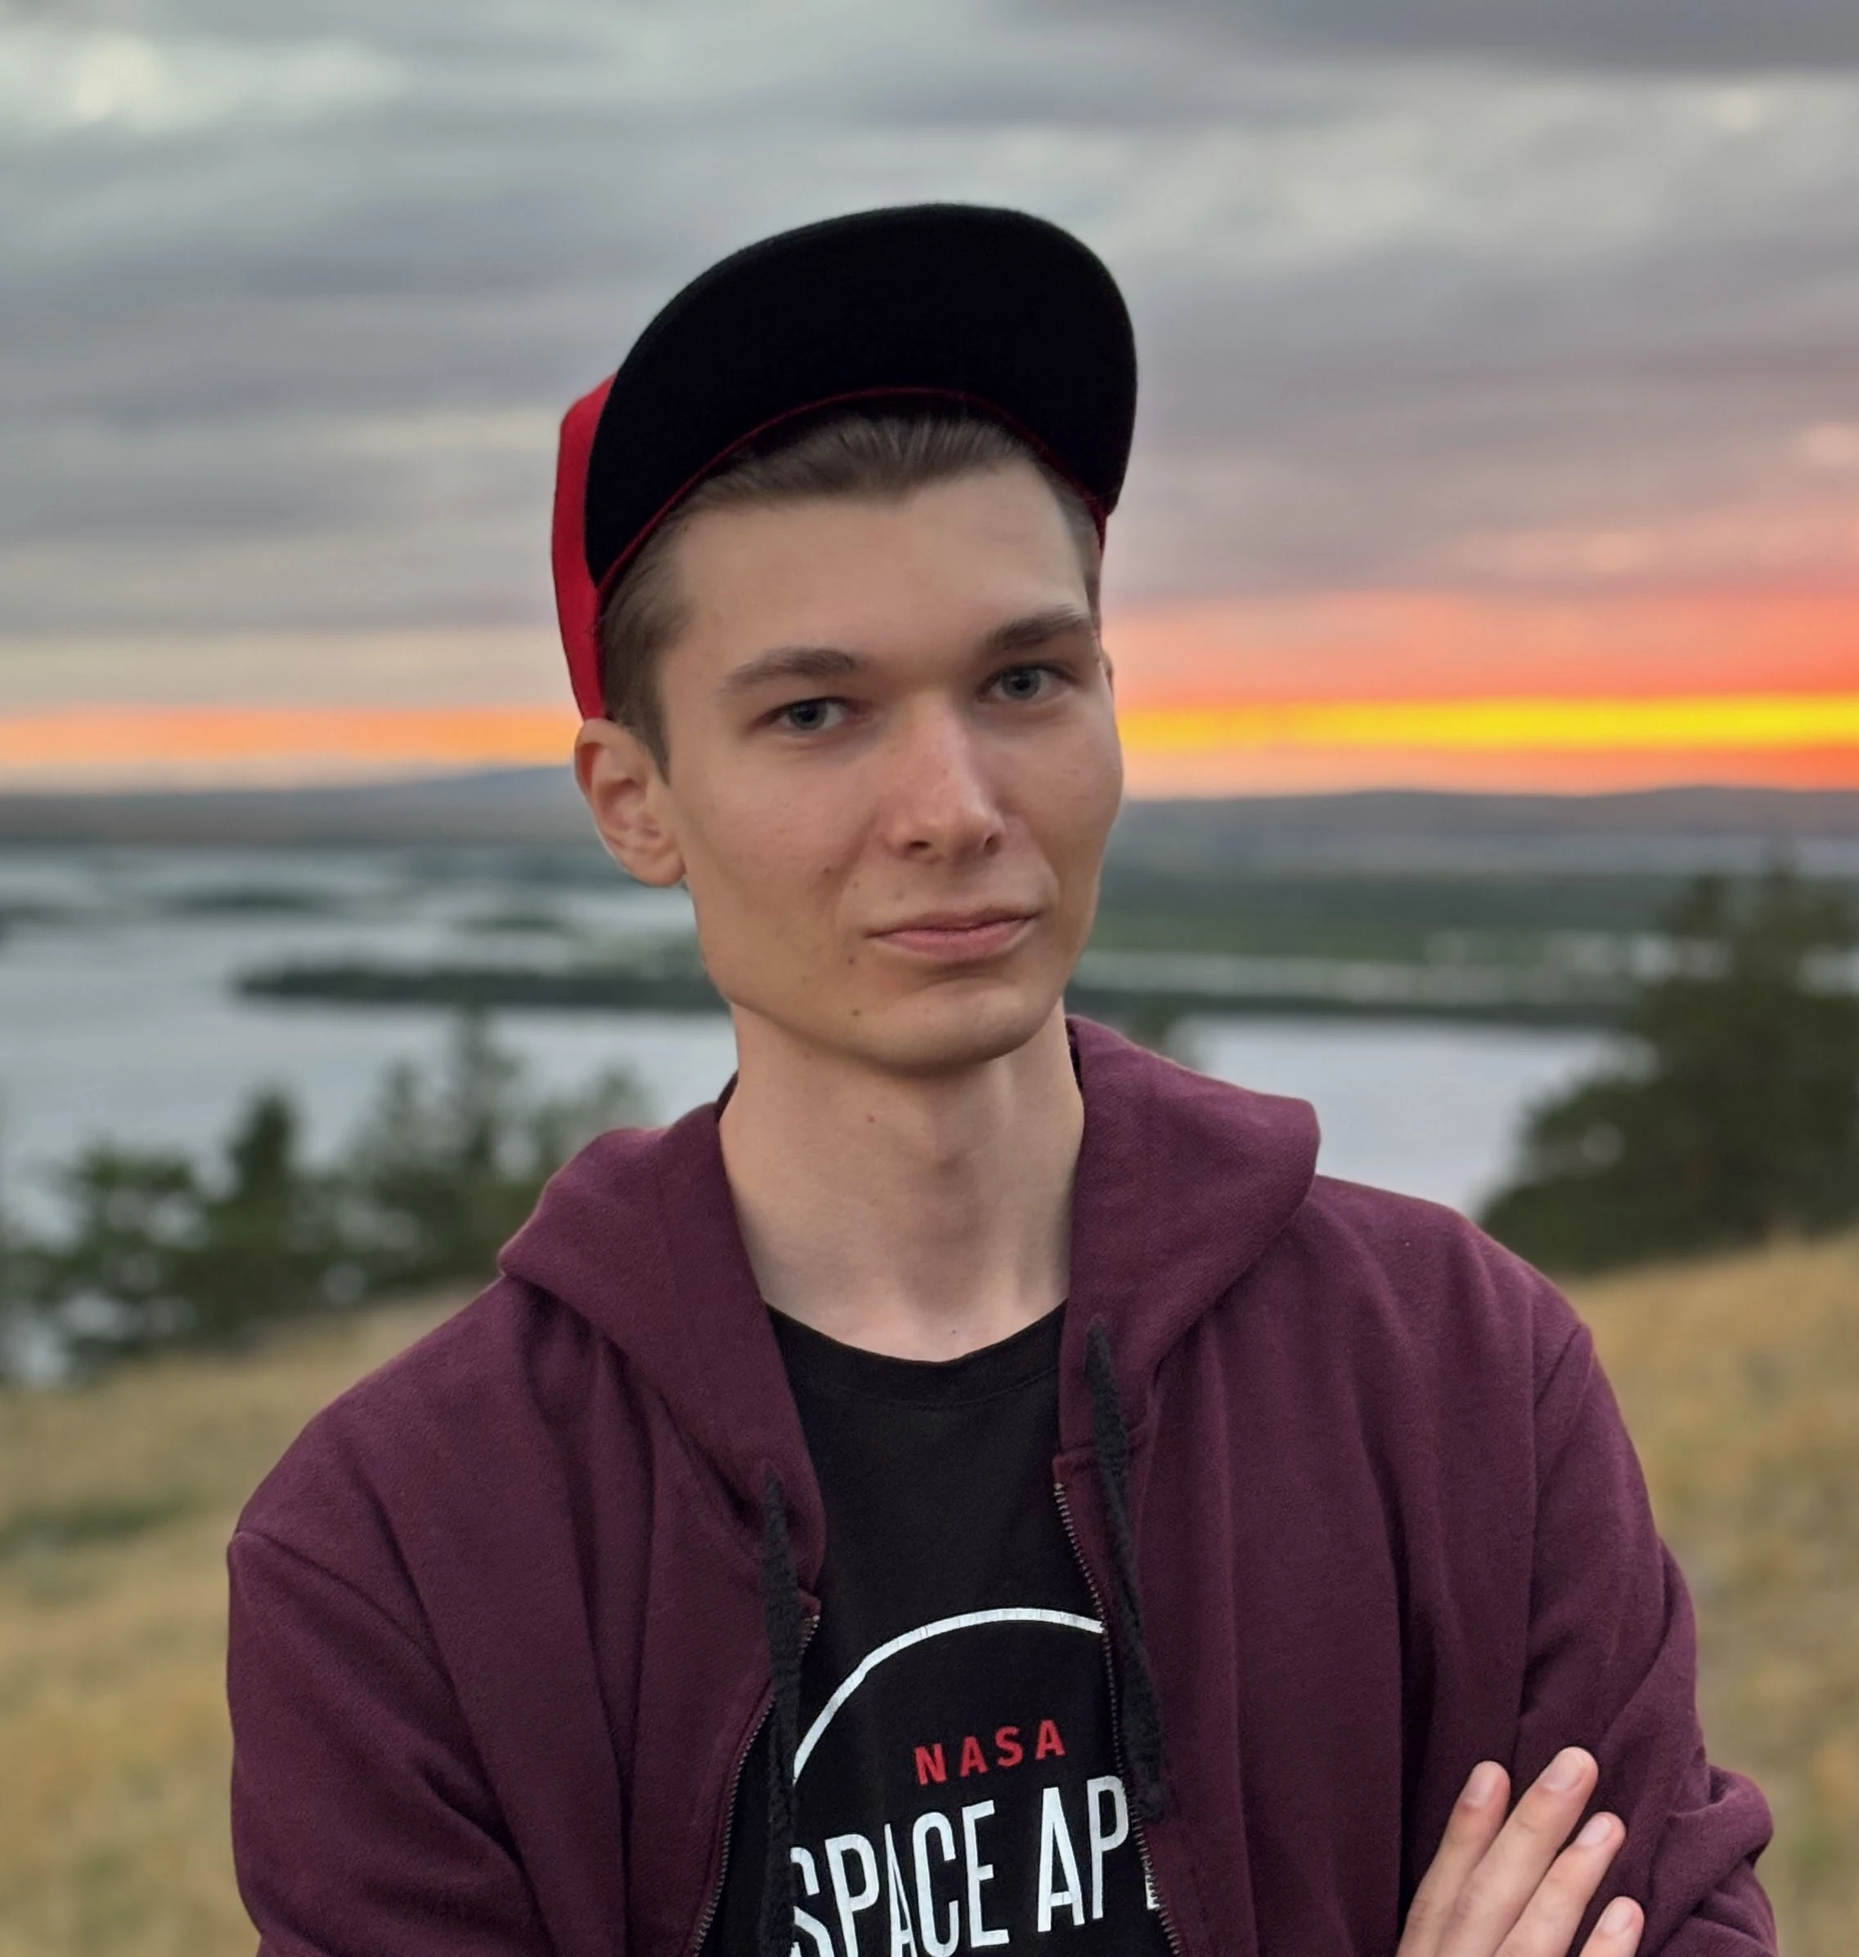
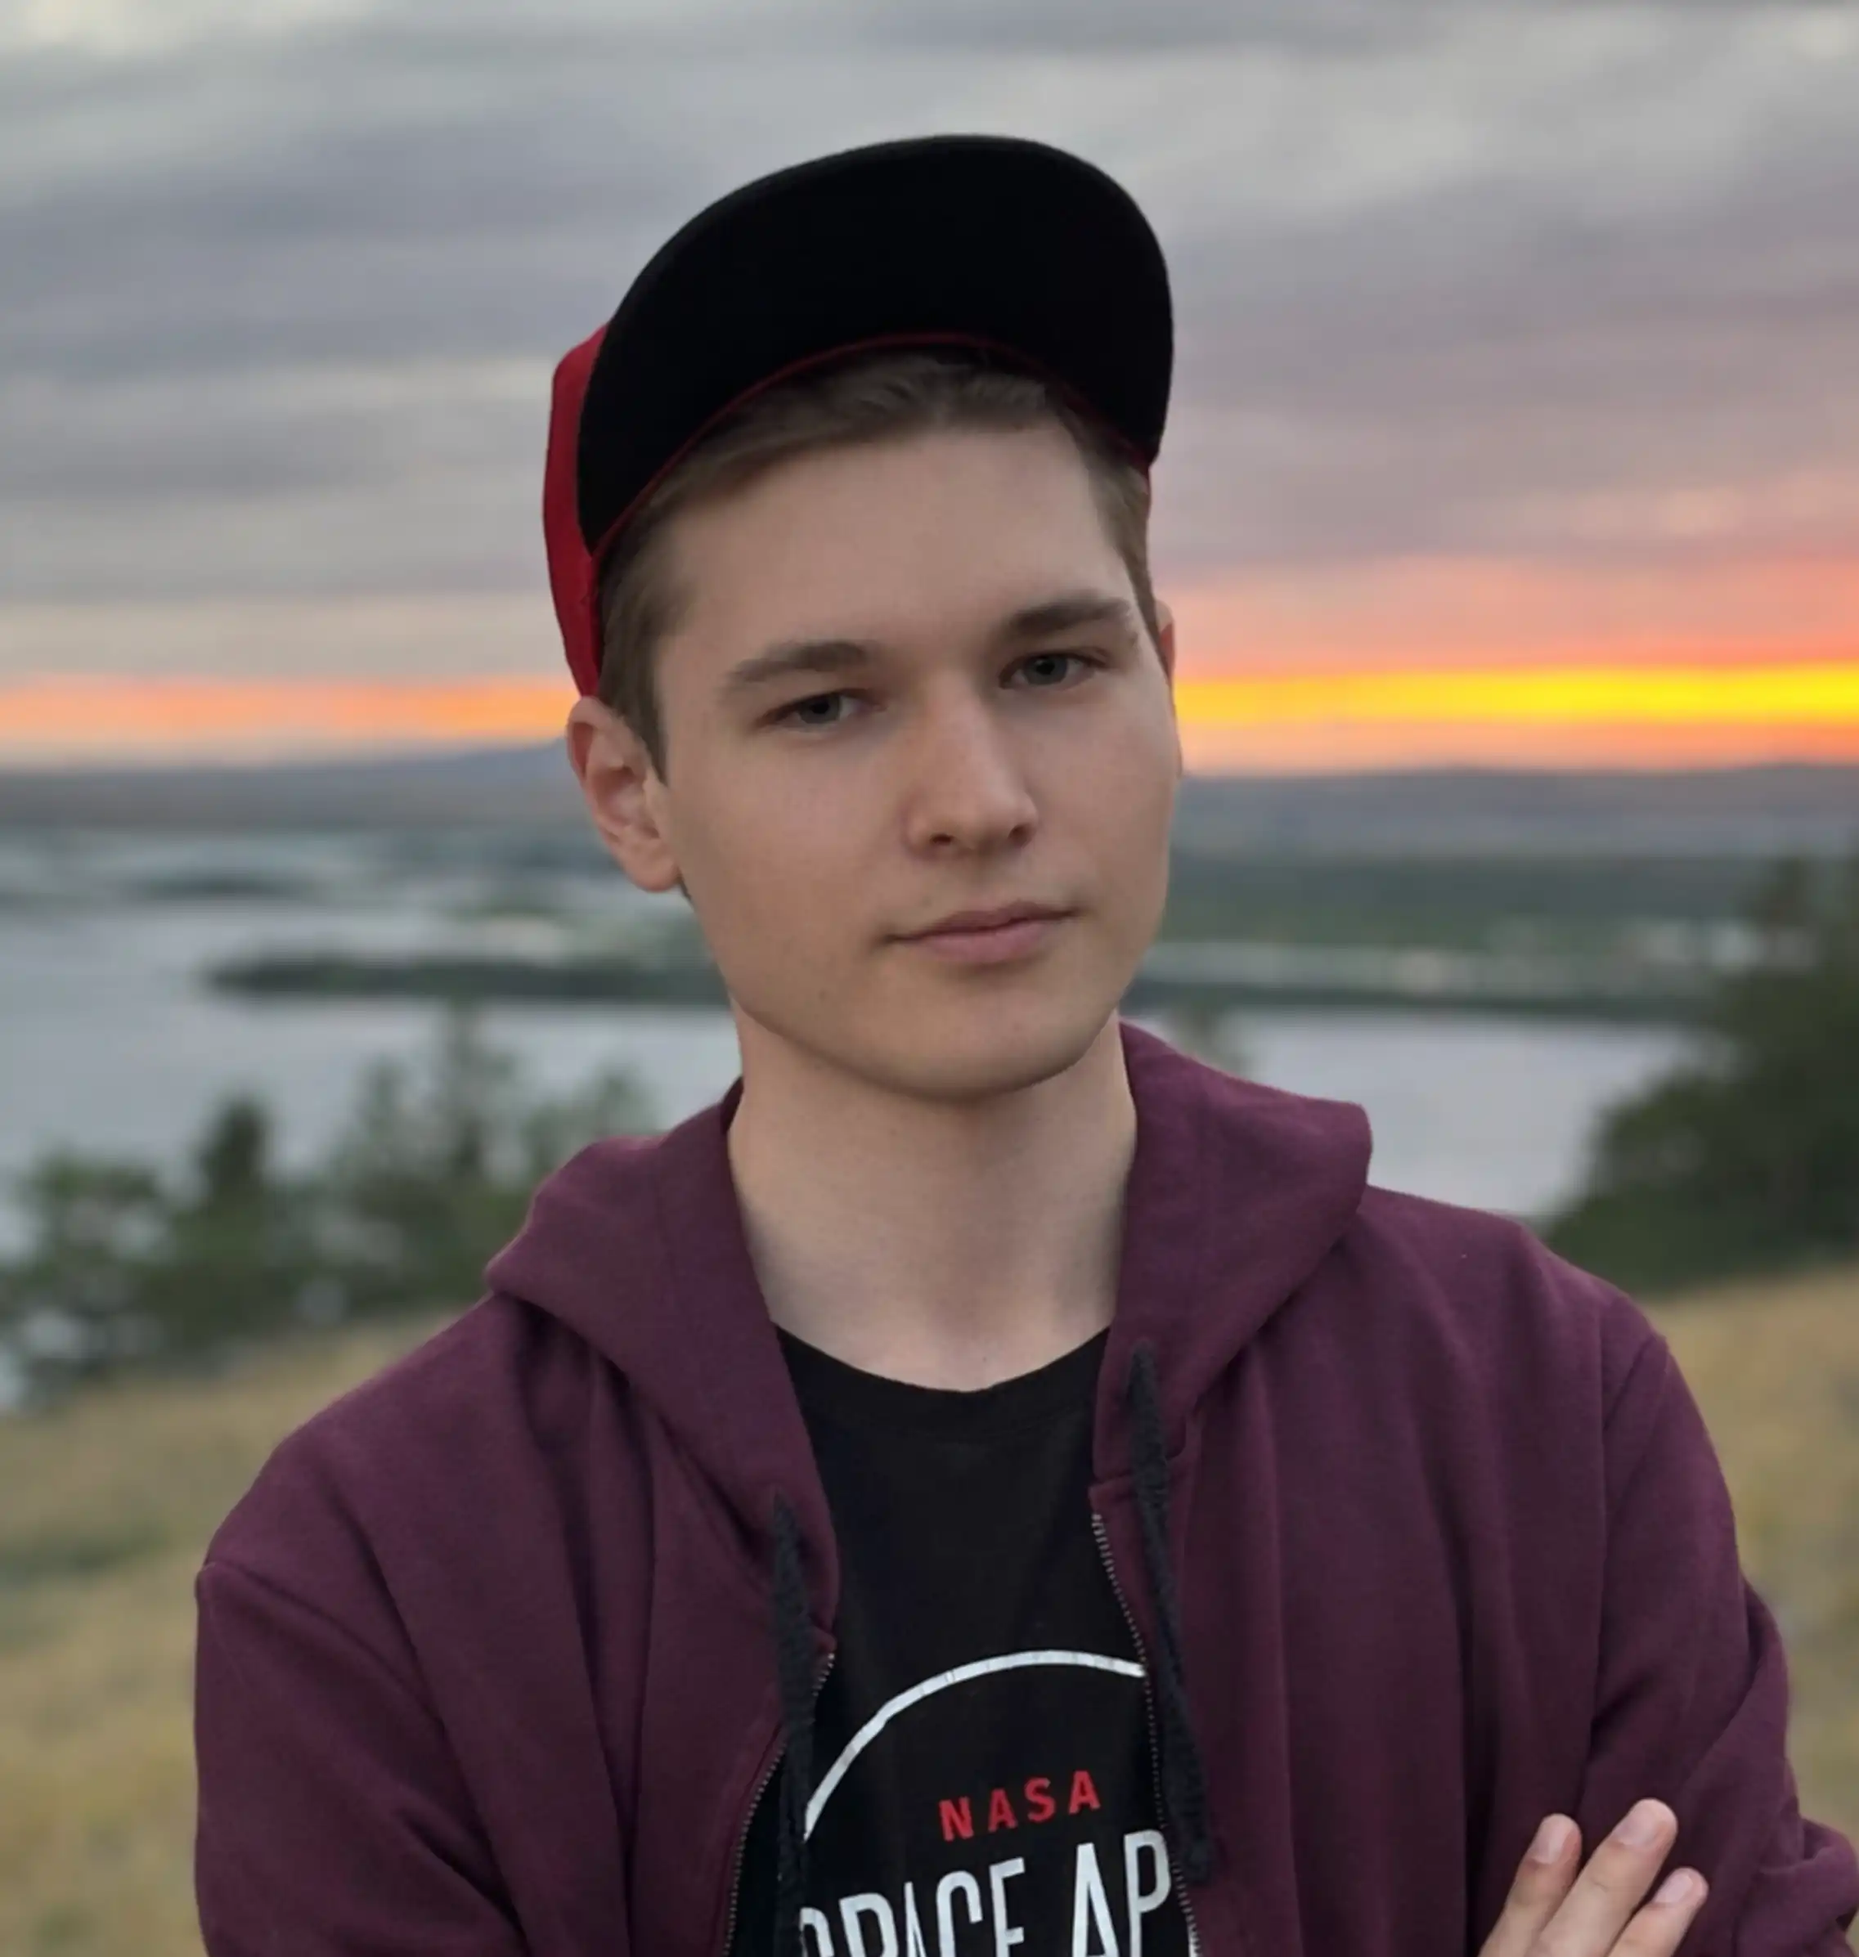
feat: update team member name, disable gallery autoplay, refresh team photo

diff --git a/landing/src/components/sections/Gallery.tsx b/landing/src/components/sections/Gallery.tsx
@@ -1,6 +1,6 @@
 "use client";
 
-import { useState, useEffect, useRef } from "react";
+import { useState, useRef } from "react";
 import Image from "next/image";
 import { Section } from "@/components/ui/Section";
 
@@ -16,29 +16,9 @@ const images = [
 
 export function Gallery() {
   const [activeIndex, setActiveIndex] = useState(0);
-  const [isVisible, setIsVisible] = useState(false);
-  const [autoPlay, setAutoPlay] = useState(true);
   const sectionRef = useRef<HTMLDivElement>(null);
 
-  useEffect(() => {
-    const observer = new IntersectionObserver(
-      ([entry]) => setIsVisible(entry.isIntersecting),
-      { threshold: 0.3 }
-    );
-    if (sectionRef.current) observer.observe(sectionRef.current);
-    return () => observer.disconnect();
-  }, []);
-
-  useEffect(() => {
-    if (!isVisible || !autoPlay) return;
-    const interval = setInterval(() => {
-      setActiveIndex((prev) => (prev + 1) % images.length);
-    }, 5000);
-    return () => clearInterval(interval);
-  }, [isVisible, autoPlay]);
-
   const handleManualSelect = (i: number) => {
-    setAutoPlay(false);
     setActiveIndex(i);
   };
 

diff --git a/landing/src/components/sections/Team.tsx b/landing/src/components/sections/Team.tsx
@@ -10,7 +10,7 @@ const members = [
     image: "/team/oyvr6cv2c5vvyqunkte5.webp",
   },
   {
-    name: "Artyom Ostrikov",
+    name: "Igor Sorokin",
     role: "Backend Developer",
     image: "/team/qfzssuxt1qsdovvrvye6.webp",
   },
